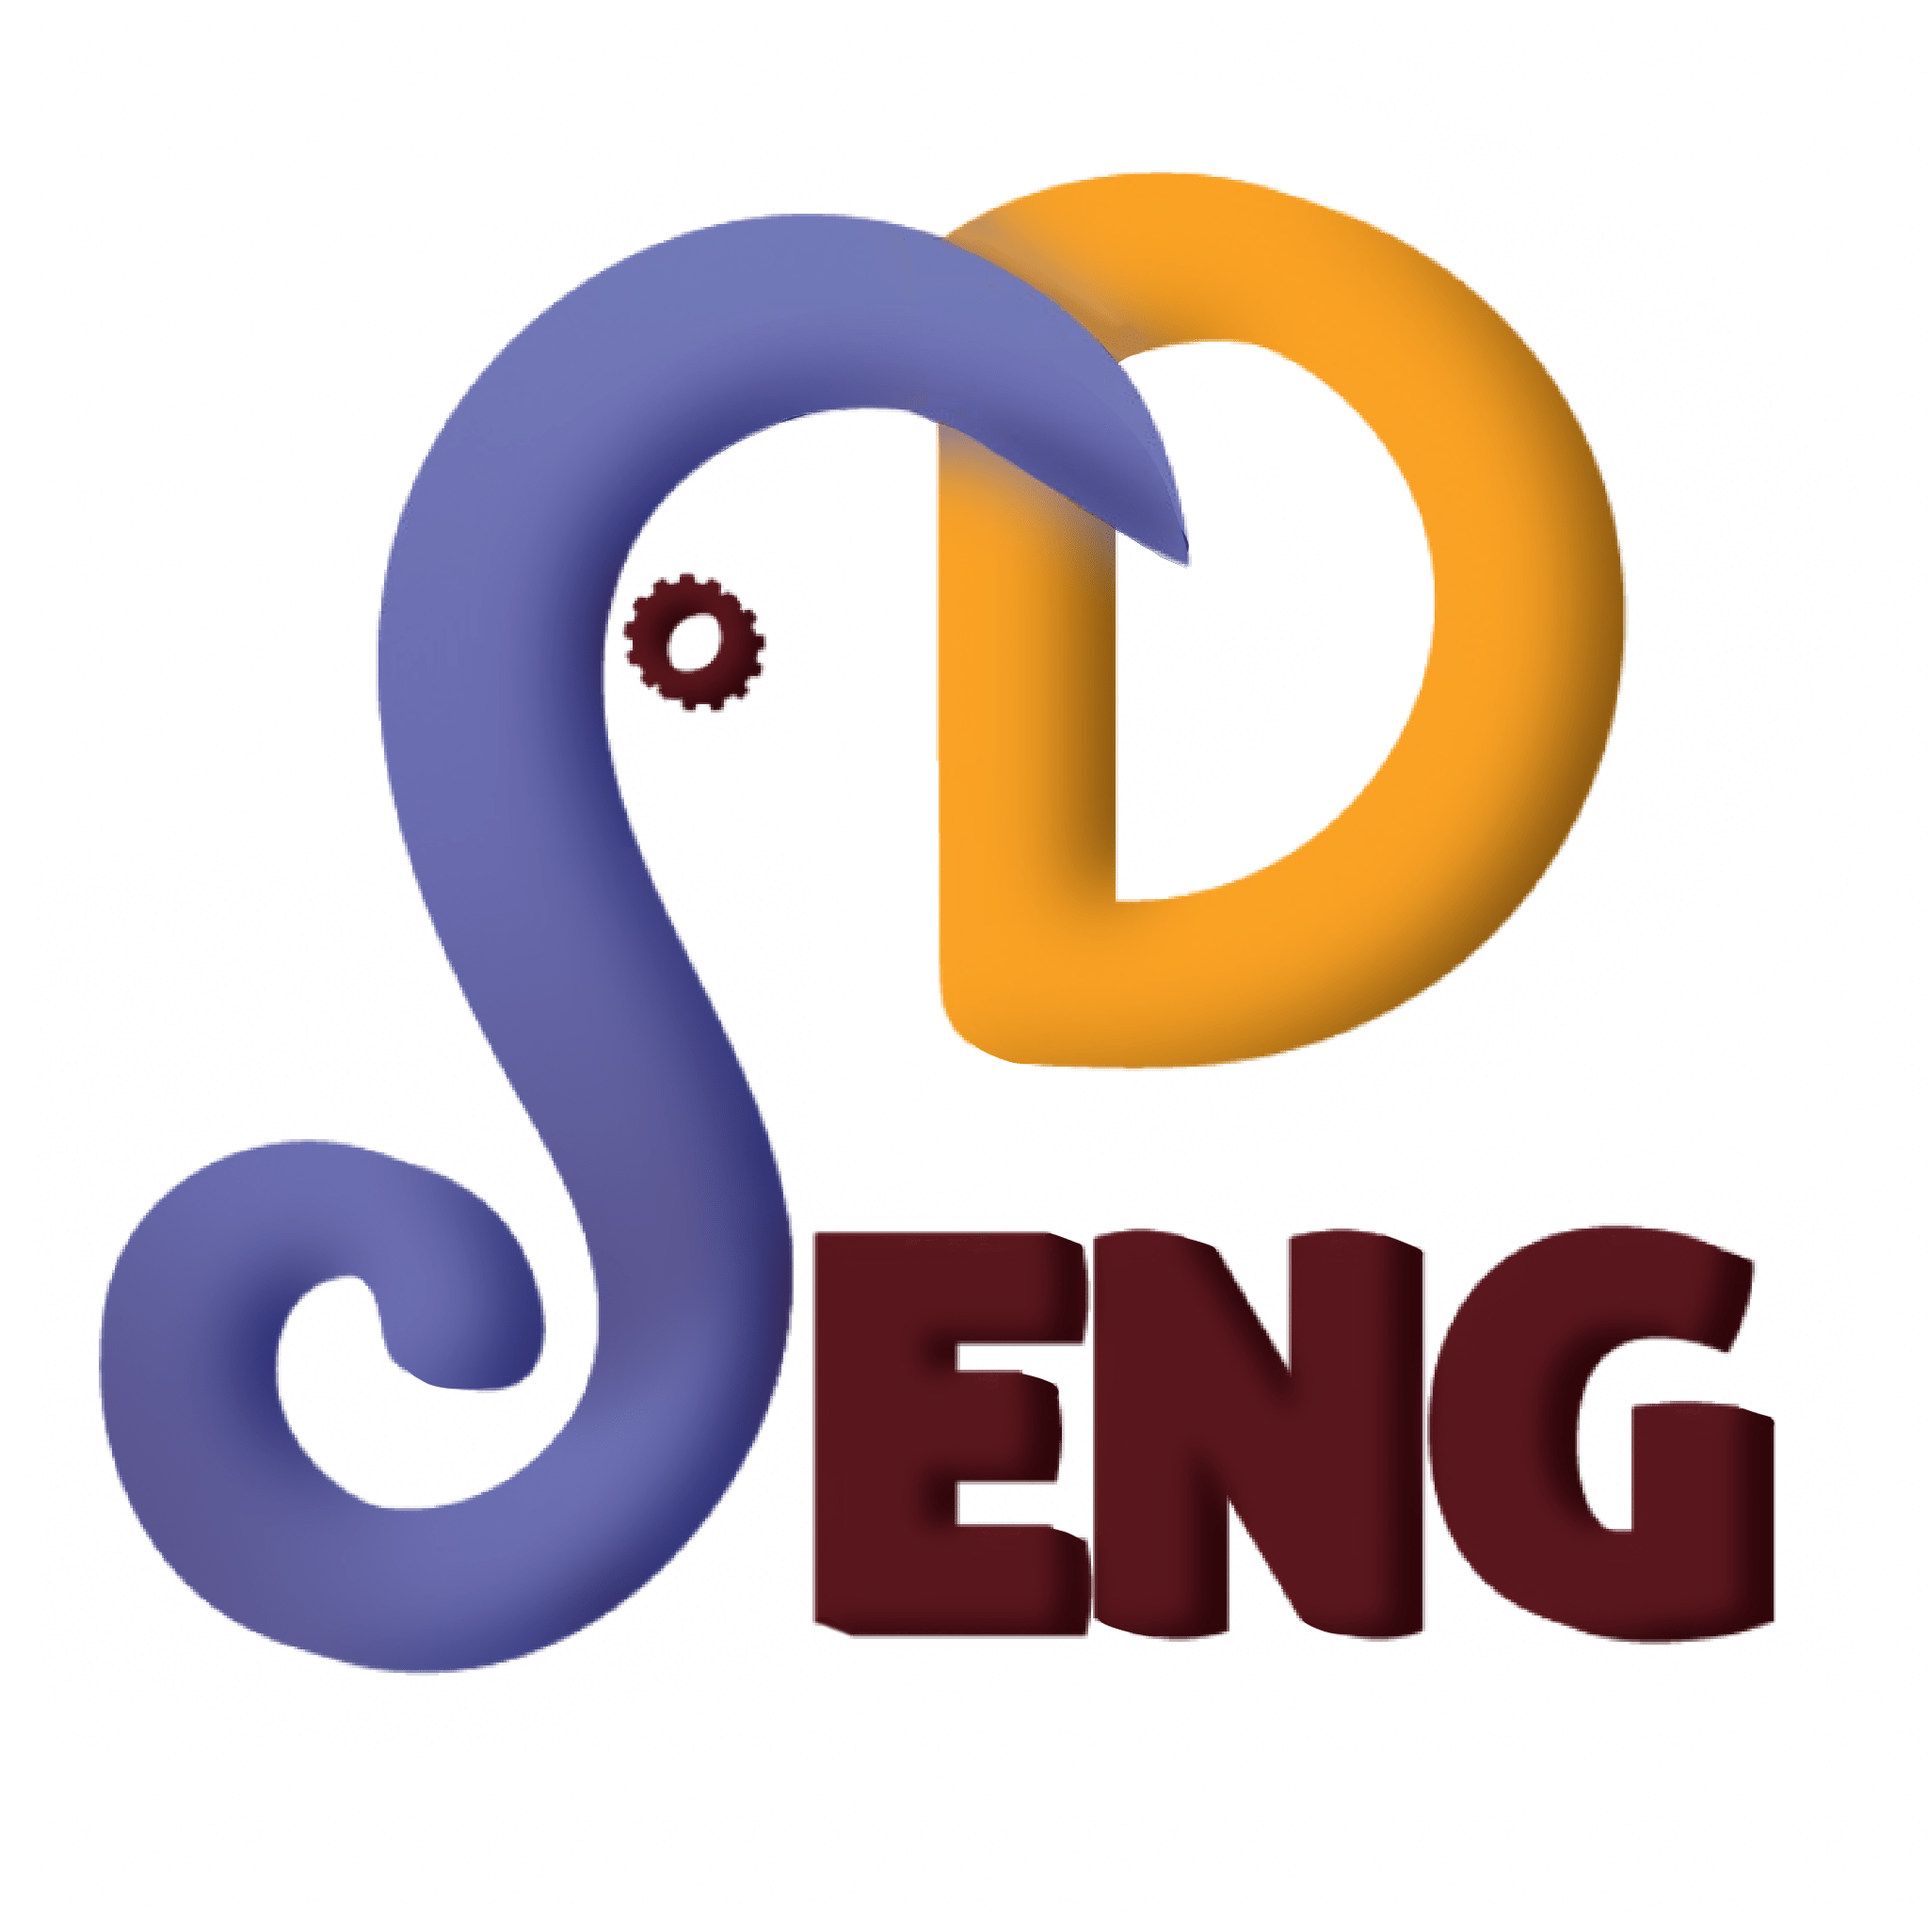
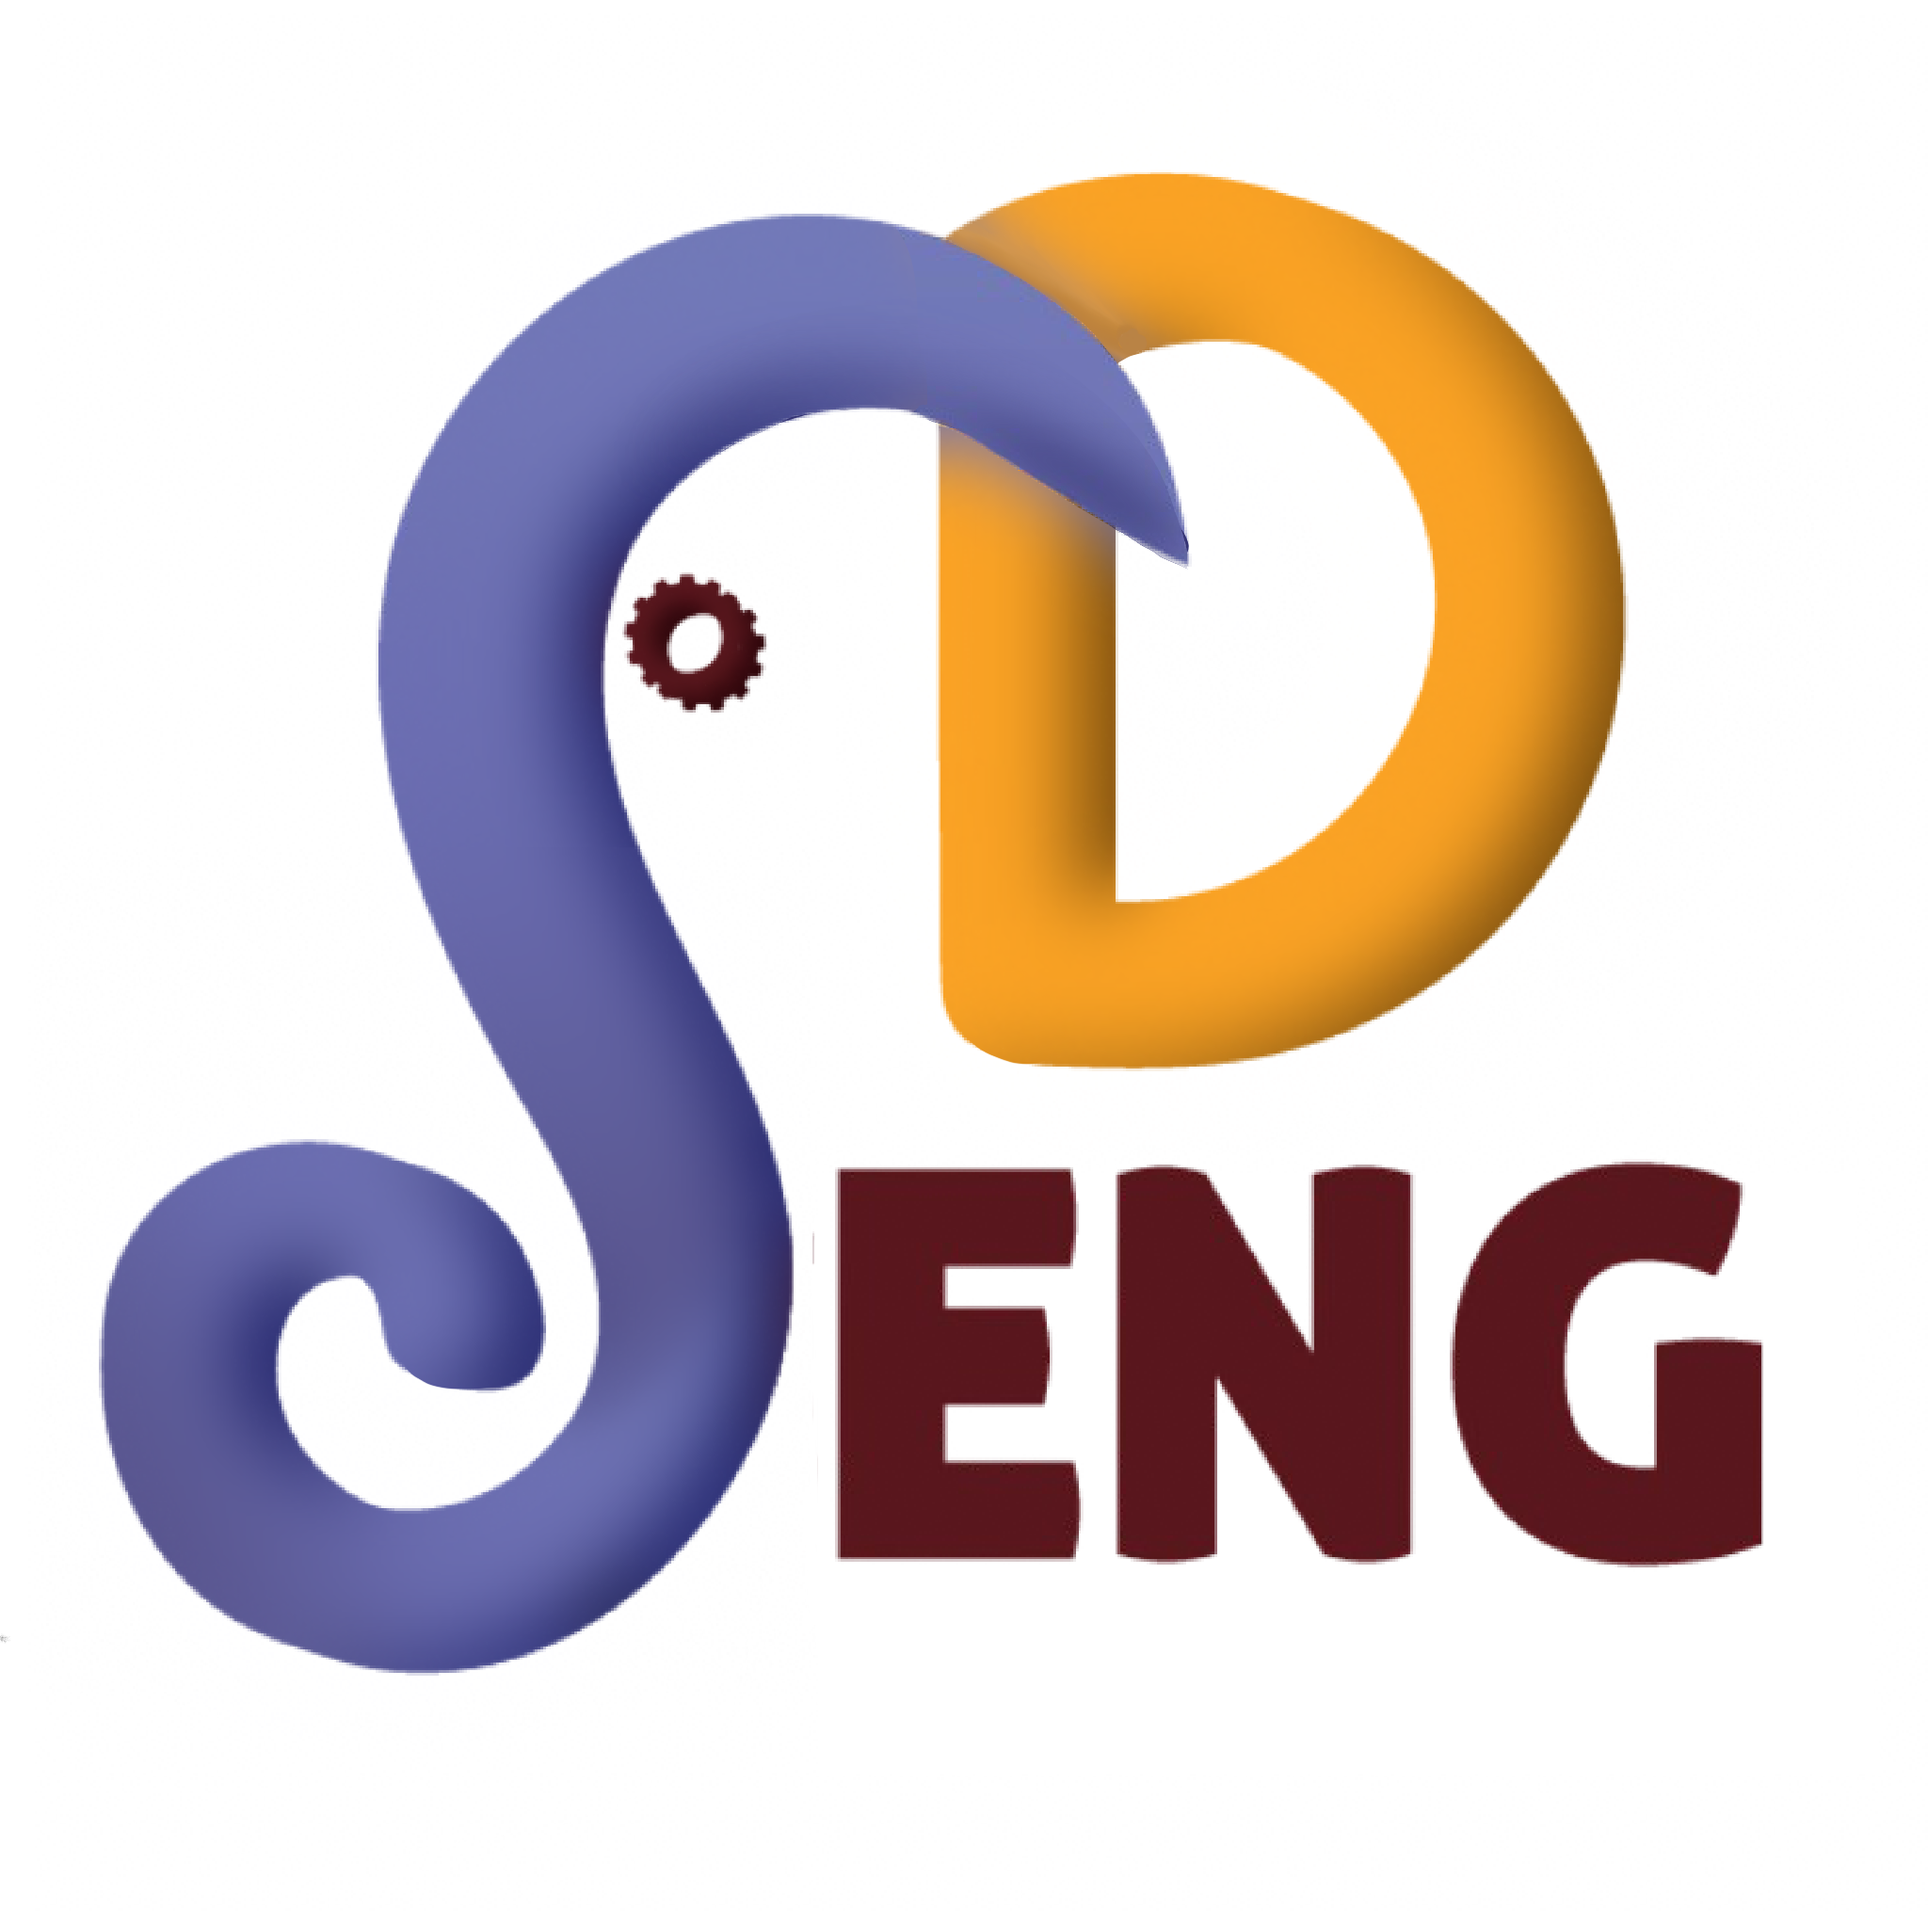
fix display q

Changed region(s): [[0.4062, 0.5938, 0.9375, 0.875]]

diff --git a/src/pages/display-queue.tsx b/src/pages/display-queue.tsx
@@ -2,8 +2,7 @@ import Router from "next/router";
 import { Button } from "@/components/ui/button";
 import Image from "next/image";
 import { Route } from "@/config/Route";
-import logoSD from "../../public/images/logoSD.png";
-import qrCode from "../../public/images/qrCode.png";
+import logoSD from "../../public/images/logoSDBlack.png";
 import Icon from "@/components/Icon";
 import { useAppSelector } from "@/store";
 import { useEffect, useState } from "react";
@@ -18,6 +17,7 @@ import {
   TableHeader,
   TableRow,
 } from "@/components/ui/table";
+import axios from "axios";
 
 export default function Home() {
   const [time, setTime] = useState<string>("");
@@ -52,7 +52,7 @@ export default function Home() {
         day: "numeric",
         month: "short",
       };
-      const currentDate = new Intl.DateTimeFormat("en-EN", options).format(
+      const currentDate = new Intl.DateTimeFormat("en-GB", options).format(
         new Date()
       );
       setDateTime(currentDate);
@@ -69,24 +69,31 @@ export default function Home() {
       <Table className="w-full " striped={true}>
         <TableHeader>
           <TableRow className="sticky text-b2 samsungA24:text-b1 font-bold top-0 z-30">
-            <TableHead className=" rounded-tl-2xl bg-[#001F3F] text-[3vh] text-center border-b-[2px] border-r-[2px] border-[#8ff5a7] p-3 py-4 text-[#ffffff]">
-              หมายเลขคิวที่เรียก <br /> Called Queue
+            <TableHead className=" bg-[#000000] w-[20%] !rounded-none  border-b-[2px] border-[#ffffff]  text-[4vh] text-center text-[#efde25] p-3">
+              Counter
             </TableHead>
-            <TableHead className=" bg-[#001F3F] rounded-tr-2xl border-b-[2px] border-[#8ff5a7]  text-[3vh] text-center text-[#ffffff] p-3">
-              เคาน์เตอร์ <br /> (Counter)
+            <TableHead className="  bg-[#000000] text-[4vh]  w-[25%] text-center border-b-[2px]  border-l-[2px] border-[#fffffff] p-3 py-4 text-[#efde25]">
+              Called No.
+            </TableHead>
+            <TableHead className="  bg-[#000000] text-[4vh]  w-[55%] text-start border-b-[2px]  border-[#fffffff] p-3 py-4 text-[#efde25]">
+              Name
             </TableHead>
           </TableRow>
         </TableHeader>
-        <TableBody className="font-normal rounded-br-2xl text-center text-b2 samsungA24:text-b1">
+        <TableBody className="font-normal  text-center text-b2 samsungA24:text-b1">
           {queueData && queueData.length > 0 ? (
             queueData.map((item: any) => (
               <TableRow className="" key={item.queueNumber}>
-                <TableCell className="font-semibold bg-[#0b1734] border-r-[2px] border-[#8ff5a7] rounded-bl-2xl  text-white text-[14vh] ">
-                  {item.queueNumber}
-                  <p className="text-[3.8vh]  -mt-4 my-10">วรพิชชา เมืองยศ</p>
-                </TableCell>
-                <TableCell className=" bg-[#0b1734] rounded-br-2xl text-white font-semibold text-[14vh]">
+                <TableCell className=" bg-[#0E1235]  text-white font-semibold text-[6vh]">
                   {item.counter}
+                </TableCell>
+                <TableCell className="font-semibold bg-[#0E1235] border-l-[2px] border-[#ffffff]  text-[#efde25] text-[6vh] ">
+                  {item.queueNumber}
+                </TableCell>
+                <TableCell className="font-semibold text-start bg-[#0E1235]   border-[#ffffff]  text-white text-[5vh] ">
+                  <p className=" font-normal font-roboto text-[4vh] -ml-3">
+                    {item.name}
+                  </p>
                 </TableCell>
               </TableRow>
             ))
@@ -102,84 +109,124 @@ export default function Home() {
     );
   };
 
-  const queueData = [{ queueNumber: "A081", counter: "A" }];
+  const AQI_STATUS = {
+    GOOD: "Good",
+    MODERATE: "Moderate",
+    UNHEALTHY_SG: "Concern",
+    UNHEALTHY: "Unhealthy",
+    VERY_UNHEALTHY: "Very Unhealthy",
+    HAZARDOUS: "Hazardous",
+  };
 
-  const calledQueueData = [
-    { queueNumber: "A080" },
-    { queueNumber: "B021" },
-    { queueNumber: "B020" },
-    { queueNumber: "A079" },
-    { queueNumber: "C025" },
-    { queueNumber: "A078" },
-    { queueNumber: "A077" },
-    { queueNumber: "A076" },
+  const [aqi, setAqi] = useState<number | null>(null);
+  const [aqiStatus, setAqiStatus] = useState<string>("");
+  const determineAqiStatus = (value: number): string => {
+    if (value <= 50) return AQI_STATUS.GOOD;
+    if (value <= 100) return AQI_STATUS.MODERATE;
+    if (value <= 150) return AQI_STATUS.UNHEALTHY_SG;
+    if (value <= 200) return AQI_STATUS.UNHEALTHY;
+    if (value <= 300) return AQI_STATUS.VERY_UNHEALTHY;
+    return AQI_STATUS.HAZARDOUS;
+  };
+  const getAqiBackgroundColor = (status: string): string => {
+    switch (status) {
+      case AQI_STATUS.GOOD:
+        return "bg-[#39c992] text-black";
+      case AQI_STATUS.MODERATE:
+        return "bg-[#fdd64b] text-[#000000]";
+      case AQI_STATUS.UNHEALTHY_SG:
+        return "bg-[#faa166] text-[#000000]";
+      case AQI_STATUS.UNHEALTHY:
+        return "bg-[#cd3030] text-[#ffffff]";
+      case AQI_STATUS.VERY_UNHEALTHY:
+        return "bg-[#70497f] text-[#ffffff]";
+      case AQI_STATUS.HAZARDOUS:
+        return "bg-[#793e50] text-[#ffffff]";
+      default:
+        return "bg-black";
+    }
+  };
+
+  useEffect(() => {
+    const fetchAqi = async () => {
+      try {
+        // const response = await axios.get(
+        //   "https://api.airvisual.com/v2/nearest_city",
+        //   {
+        //     params: {
+        //       key: "4f6af6ef-9045-4d4e-b95e-7a125bb11db8", // Replace with your API key
+        //       lat: "18.79", // Example latitude
+        //       lon: "98.95", // Example longitude
+        //     },
+        //   }
+        // );
+        // const aqiValue = response.data.data.current.pollution.aqius;
+        
+        const aqiValue = 226; // Mock test color bg and text
+        setAqi(aqiValue);
+        setAqiStatus(determineAqiStatus(aqiValue));
+      } catch (error) {
+        console.error("Error fetching AQI data:", error);
+      }
+    };
+  
+    fetchAqi(); 
+    const interval = setInterval(fetchAqi, 30 * 60 * 1000); 
+    return () => clearInterval(interval); 
+  }, []);
+  
+
+  const queueData = [
+    { queueNumber: "C081", counter: "1", name: "สวิช จารึกพูนผล" },
+    { queueNumber: "S012", counter: "2", name: "ธนพร ชาญชนะโยธิน" },
+    { queueNumber: "B065", counter: "3", name: "วรพิชชา เมืองยศ" },
+    { queueNumber: "E034", counter: "4", name: "สุพิชญา รวมสิน" },
+    { queueNumber: "T024", counter: "5", name: "เอกชัย แพร่ไพศาลภูบาล" },
+    { queueNumber: "A008", counter: "6", name: "เนตรนภา สาระแปง" },
   ];
+
 
   return (
     <div className="flex flex-col min-h-screen overflow-hidden">
-      {/* Navbar (Sticky and does not scroll) */}
       <div
         style={{ boxShadow: "0px 0px 4px 0px rgba(0, 0, 0, 0.25)" }}
-        className="sticky top-0 flex min-h-[11vh] bg-[#001F3F] border-b border-[#000000] justify-between items-center px-10 z-50"
+        className="sticky top-0 flex min-h-[11vh] bg-[#efde25] border-b border-[#000000] justify-between items-center px-10 z-50"
       >
-        <div className="flex flex-col text-white text-[2.4vh] gap-[2px]">
-          <p className="font-medium">คิวห้องงานพัฒนาคุณภาพนักศึกษา</p>
-          <p className="font-semibold">Student Development Room Queue</p>
-        </div>
-        <p className="text-white text-[5.2vh] font-medium">{time}</p>
-        <div className="flex flex-col text-end text-white text-[2.4vh] gap-[2px]">
-          <p className="font-medium">คณะวิศวกรรมศาสตร์ มหาวิทยาลัยเชียงใหม่</p>
-          <p className="font-semibold">Faculty of Engineering, CMU</p>
+        <div className="flex gap-8  h-full items-center justify-center  ">
+          <p className="text-[#000000] text-[6vh] font-semibold">{dateTime}</p>
+          <p className="text-[#000000] text-[6vh] font-semibold">{time}</p>
+        </div>{" "}
+        <div className="flex  gap-5 items-center">
+          <Image src={logoSD} alt="cmulogo" className="w-[4.5vw]  " />
         </div>
       </div>
 
-      {/* Main Content (Flex-grow to fill remaining height) */}
       <div className="flex flex-col flex-grow">
-        <div className="flex bg-[#8ff5a7] p-4 w-full flex-col flex-grow">
-          <QueueCallTable queueData={queueData} />
-        </div>
+        <QueueCallTable queueData={queueData} />
 
-        {/* Footer Section */}
-        <div className="flex flex-grow bg-slate-800 px-12 py-3 gap-4  w-full">
-          <div className="flex flex-col gap-4 w-[69%]">
-            <div className="grid grid-cols-3 gap-4">
-              <div className="flex rounded-2xl justify-center items-center p-5 text-white bg-[#FF5733] flex-col">
-                <p className="text-[3.3vh]">Counter A</p>
-                <p className="text-[7vh] font-semibold">A081</p>
-              </div>
-              <div className="flex rounded-2xl justify-center items-center p-5 text-white bg-[#1E90FF] flex-col">
-                <p className="text-[3.3vh]">Counter B</p>
-                <p className="text-[7vh] font-semibold">B081</p>
-              </div>
-              <div className="flex rounded-2xl justify-center items-center p-5 text-white bg-[#918123] flex-col">
-                <p className="text-[3.3vh]">Counter C</p>
-                <p className="text-[7vh] font-semibold">C081</p>
-              </div>
-            </div>
-            <div className="grid grid-cols-3 gap-4">
-              <div className="flex rounded-2xl justify-center items-center p-5 text-white bg-[#28A745] flex-col">
-                <p className="text-[3.3vh]">Counter D</p>
-                <p className="text-[7vh] font-semibold">D081</p>
-              </div>
-              <div className="flex rounded-2xl justify-center items-center p-5 text-white bg-[#FF69B4] flex-col">
-                <p className="text-[3.3vh]">Counter E</p>
-                <p className="text-[7vh] font-semibold">E081</p>
-              </div>
-              <div className="flex rounded-2xl justify-center items-center p-5 text-white  bg-[#8A2BE2] flex-col">
-                <p className="text-[3.3vh]">Counter F</p>
-                <p className="text-[7vh] font-semibold">F081</p>
-              </div>
-            </div>
+        <div className="flex flex-grow bg-[#fffffff]  gap-4  w-full">
+          <div
+            className={`flex w-[40%] px-10 h-full items-center gap-9 justify-between text-black text-start ${
+              aqiStatus ? getAqiBackgroundColor(aqiStatus) : "bg-gray-300"
+            }`}
+          >
+            <p className="text-[2.7vh] ">
+              <span className="font-semibold text-[6vh]">
+                {" "}
+                {aqi !== null ? aqi : "loading"}
+              </span>{" "}
+              US AQI
+            </p>
+            <p className="font-semibold text-[5.2vh]">
+              {" "}
+              {aqiStatus || "loading"}
+            </p>
           </div>
-          <div className="text-white w-[31%] flex flex-col h-full text-center items-center justify-center">
-            <p className="text-[3.3vh]">จองคิวได้ที่</p>
-            <p className="text-[3.3vh]">q.eng.cmu.ac.th</p>
-            <Image
-              src={qrCode}
-              style={{ borderRadius: "20px" }}
-              alt="qrcode"
-              className="w-[18vw] mr-2"
-            />
+          <div className="flex gap-8 px-12 w-[60%]  items-center justify-center ">
+            <p className="text-[#000000] text-[5.8vh] font-medium">
+              จองคิวได้ที่
+              <span className="font-semibold"> q.eng.cmu.ac.th</span>
+            </p>
           </div>
         </div>
       </div>

diff --git a/tailwind.config.ts b/tailwind.config.ts
@@ -90,7 +90,9 @@ export default {
         macair133: "1280px",
         samsungA24: "1600px",
       },
-      fontFamily: {},
+      fontFamily: {
+        roboto: ['Roboto', 'sans-serif'],
+      },
     },
   },
   plugins: [require("tailwindcss-animate")],
